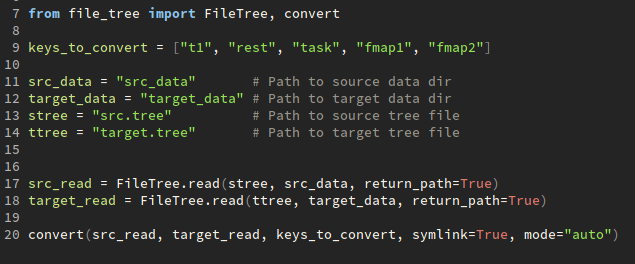
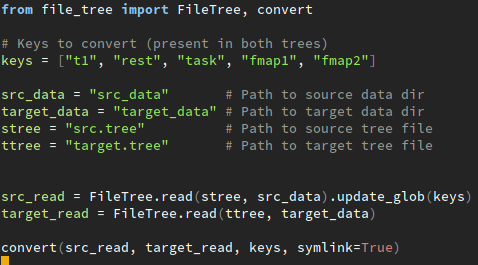
post convert

diff --git a/post/converting-datasets-filetree-wip/index.html b/post/converting-datasets-filetree-wip/index.html
@@ -27,7 +27,7 @@
   
     
   
-  <meta name="description" content="Converting the structure of structured imaging datasets is tricky. I had to do this for a consolidated analysis and have found the file_tree module took much of the hassle out. Work is in progress on incorporating this functionality in the module itself.">
+  <meta name="description" content="We often deal with structured imaging datasets, and understanding a different structure, or converting between them for data sharing or analysis can be tricky. I recently did this for a consolidated analysis and found that Michiel Cottaar&rsquo;s file_tree module took much of the hassle out.">
 
   
   <link rel="alternate" hreflang="en-us" href="https://Craskermasker.github.io/post/converting-datasets-filetree-wip/">
@@ -233,8 +233,8 @@
   
   <meta property="og:site_name" content="Evan Edmond">
   <meta property="og:url" content="https://Craskermasker.github.io/post/converting-datasets-filetree-wip/">
-  <meta property="og:title" content="Converting Datasets with file_tree - Work in Progress | Evan Edmond">
-  <meta property="og:description" content="Converting the structure of structured imaging datasets is tricky. I had to do this for a consolidated analysis and have found the file_tree module took much of the hassle out. Work is in progress on incorporating this functionality in the module itself."><meta property="og:image" content="https://Craskermasker.github.io/post/converting-datasets-filetree-wip/featured.png">
+  <meta property="og:title" content="Converting Datasets with file_tree | Evan Edmond">
+  <meta property="og:description" content="We often deal with structured imaging datasets, and understanding a different structure, or converting between them for data sharing or analysis can be tricky. I recently did this for a consolidated analysis and found that Michiel Cottaar&rsquo;s file_tree module took much of the hassle out."><meta property="og:image" content="https://Craskermasker.github.io/post/converting-datasets-filetree-wip/featured.png">
   <meta property="twitter:image" content="https://Craskermasker.github.io/post/converting-datasets-filetree-wip/featured.png"><meta property="og:locale" content="en-us">
   
     
@@ -266,7 +266,7 @@
     "@type": "WebPage",
     "@id": "https://Craskermasker.github.io/post/converting-datasets-filetree-wip/"
   },
-  "headline": "Converting Datasets with file_tree - Work in Progress",
+  "headline": "Converting Datasets with file_tree",
   
   "image": [
     "https://Craskermasker.github.io/post/converting-datasets-filetree-wip/featured.png"
@@ -288,7 +288,7 @@
       "url": "https://Craskermasker.github.io/images/icon_hu52c3432a9714b9dff44576768deb52e5_42693_192x192_fill_lanczos_center_2.png"
     }
   },
-  "description": "Converting the structure of structured imaging datasets is tricky. I had to do this for a consolidated analysis and have found the file_tree module took much of the hassle out. Work is in progress on incorporating this functionality in the module itself."
+  "description": "We often deal with structured imaging datasets, and understanding a different structure, or converting between them for data sharing or analysis can be tricky. I recently did this for a consolidated analysis and found that Michiel Cottaar\u0026rsquo;s file_tree module took much of the hassle out."
 }
 </script>
 
@@ -306,7 +306,7 @@
 
 
 
-  <title>Converting Datasets with file_tree - Work in Progress | Evan Edmond</title>
+  <title>Converting Datasets with file_tree | Evan Edmond</title>
 
 </head>
 
@@ -588,7 +588,7 @@
 
 
 <div class="article-container pt-3">
-  <h1>Converting Datasets with file_tree - Work in Progress</h1>
+  <h1>Converting Datasets with file_tree</h1>
 
   
 
@@ -641,10 +641,10 @@
 </div>
 
 
-<div class="article-header article-container featured-image-wrapper mt-4 mb-4" style="max-width: 635px; max-height: 264px;">
+<div class="article-header article-container featured-image-wrapper mt-4 mb-4" style="max-width: 478px; max-height: 265px;">
   <div style="position: relative">
     <img src="/post/converting-datasets-filetree-wip/featured.png" alt="" class="featured-image">
-    <span class="article-header-caption">minimum working example</span>
+    
   </div>
 </div>
 
@@ -653,13 +653,13 @@
   <div class="article-container">
 
     <div class="article-style">
-      <p>Converting the structure of structured imaging datasets is tricky.
-I had to do this for a consolidated analysis and  have found the file_tree module took much of the hassle out.
-Work is in progress on incorporating this functionality in the module itself. In the meantime I have put a minimum working example here.</p>
+      <p>We often deal with structured imaging datasets, and understanding a different structure, or converting between them for data sharing or analysis can be tricky.
+I recently did this for a consolidated analysis and found that Michiel Cottaar&rsquo;s file_tree module took much of the hassle out.</p>
+<p>The <code>file_tree.convert</code> function can also handle making symlinks to save space and keep source data folders clean, and overwriting prevous runs.
+As an <strong>approach</strong> I found this clear, flexible and powerful.</p>
+<p>This has now been incorporated in <code>file_tree</code> (0.7.2 onwards) and a minimum working example is here:</p>
 <p><a href="https://gitlab.com/evan.edmond/filetree-convert-demo">https://gitlab.com/evan.edmond/filetree-convert-demo</a></p>
-<p>I found this particularly useful to converge several different datasets into a common 
-<a href="https://bids-specification.readthedocs.io/en/stable/index.html" target="_blank" rel="noopener">BIDS</a> space.</p>
-<p>This became as simple as writing a text file describing the structure of each dataset and the eventual desired target.</p>
+<p>First, we write a text file describing the structure of each dataset and the eventual desired target.</p>
 <p>dataset 1:</p>
 <pre><code>HV_{participant} (subj_dir)
   F3T_NNNN_NNN_{scancode} (scan_dir)
@@ -701,9 +701,8 @@ Work is in progress on incorporating this functionality in the module itself. In
       mrsi
         sub-{participant}_ses-p_slsr_csi_mcycle_pre_{block_n}.dat (mrsi_data)
 </code></pre>
-<p>Despite a range of different originating formats, it was relatively straightforward to move towards a common structure for further analyses.</p>
-<p>The specific implementation is a work in progress, but as an <strong>approach</strong> this had the benefit of clarity, portability, and flexibility.</p>
-<p>target dataset structure:</p>
+<p>Then a desired target dataset structure 
+<a href="https://bids-specification.readthedocs.io/en/stable/index.html" target="_blank" rel="noopener">BIDS</a> :</p>
 <pre><code>rawdata
  sub-{participant} (input_subj_dir)
     anat (input_anat_dir)
@@ -718,6 +717,23 @@ Work is in progress on incorporating this functionality in the module itself. In
       sub-{participant}_task-{task}_sbref.nii.gz (func_sbref)
     mrsi (input_mrsi_dir)
       sub-{participant}_vox-m1_csi_slaser_{block_n}.dat (mrsi_data)
+</code></pre>
+<p>Conversion then can be done as follows:</p>
+<pre><code class="language-python">from file_tree import FileTree, convert
+
+# Keys to convert (present in both trees)
+keys = [&quot;t1&quot;, &quot;rest&quot;, &quot;task&quot;, &quot;fmap1&quot;, &quot;fmap2&quot;]
+
+src_data = &quot;src_data&quot;       # Path to source data dir
+target_data = &quot;target_data&quot; # Path to target data dir
+stree = &quot;src.tree&quot;          # Path to source tree file
+ttree = &quot;target.tree&quot;       # Path to target tree file
+
+
+src_read = FileTree.read(stree, src_data).update_glob(keys)
+target_read = FileTree.read(ttree, target_data)
+
+convert(src_read, target_read, keys, symlink=True)
 </code></pre>
 
     </div>
@@ -742,7 +758,7 @@ Work is in progress on incorporating this functionality in the module itself. In
       
       
       <li>
-        <a href="https://twitter.com/intent/tweet?url=https://Craskermasker.github.io/post/converting-datasets-filetree-wip/&amp;text=Converting%20Datasets%20with%20file_tree%20-%20Work%20in%20Progress" target="_blank" rel="noopener" class="share-btn-twitter">
+        <a href="https://twitter.com/intent/tweet?url=https://Craskermasker.github.io/post/converting-datasets-filetree-wip/&amp;text=Converting%20Datasets%20with%20file_tree" target="_blank" rel="noopener" class="share-btn-twitter">
           <i class="fab fa-twitter"></i>
         </a>
       </li>
@@ -755,7 +771,7 @@ Work is in progress on incorporating this functionality in the module itself. In
       
       
       <li>
-        <a href="https://www.facebook.com/sharer.php?u=https://Craskermasker.github.io/post/converting-datasets-filetree-wip/&amp;t=Converting%20Datasets%20with%20file_tree%20-%20Work%20in%20Progress" target="_blank" rel="noopener" class="share-btn-facebook">
+        <a href="https://www.facebook.com/sharer.php?u=https://Craskermasker.github.io/post/converting-datasets-filetree-wip/&amp;t=Converting%20Datasets%20with%20file_tree" target="_blank" rel="noopener" class="share-btn-facebook">
           <i class="fab fa-facebook"></i>
         </a>
       </li>
@@ -768,7 +784,7 @@ Work is in progress on incorporating this functionality in the module itself. In
       
       
       <li>
-        <a href="mailto:?subject=Converting%20Datasets%20with%20file_tree%20-%20Work%20in%20Progress&amp;body=https://Craskermasker.github.io/post/converting-datasets-filetree-wip/" target="_blank" rel="noopener" class="share-btn-email">
+        <a href="mailto:?subject=Converting%20Datasets%20with%20file_tree&amp;body=https://Craskermasker.github.io/post/converting-datasets-filetree-wip/" target="_blank" rel="noopener" class="share-btn-email">
           <i class="fas fa-envelope"></i>
         </a>
       </li>
@@ -781,7 +797,7 @@ Work is in progress on incorporating this functionality in the module itself. In
       
       
       <li>
-        <a href="https://www.linkedin.com/shareArticle?url=https://Craskermasker.github.io/post/converting-datasets-filetree-wip/&amp;title=Converting%20Datasets%20with%20file_tree%20-%20Work%20in%20Progress" target="_blank" rel="noopener" class="share-btn-linkedin">
+        <a href="https://www.linkedin.com/shareArticle?url=https://Craskermasker.github.io/post/converting-datasets-filetree-wip/&amp;title=Converting%20Datasets%20with%20file_tree" target="_blank" rel="noopener" class="share-btn-linkedin">
           <i class="fab fa-linkedin-in"></i>
         </a>
       </li>
@@ -794,7 +810,7 @@ Work is in progress on incorporating this functionality in the module itself. In
       
       
       <li>
-        <a href="whatsapp://send?text=Converting%20Datasets%20with%20file_tree%20-%20Work%20in%20Progress%20https://Craskermasker.github.io/post/converting-datasets-filetree-wip/" target="_blank" rel="noopener" class="share-btn-whatsapp">
+        <a href="whatsapp://send?text=Converting%20Datasets%20with%20file_tree%20https://Craskermasker.github.io/post/converting-datasets-filetree-wip/" target="_blank" rel="noopener" class="share-btn-whatsapp">
           <i class="fab fa-whatsapp"></i>
         </a>
       </li>
@@ -807,7 +823,7 @@ Work is in progress on incorporating this functionality in the module itself. In
       
       
       <li>
-        <a href="https://service.weibo.com/share/share.php?url=https://Craskermasker.github.io/post/converting-datasets-filetree-wip/&amp;title=Converting%20Datasets%20with%20file_tree%20-%20Work%20in%20Progress" target="_blank" rel="noopener" class="share-btn-weibo">
+        <a href="https://service.weibo.com/share/share.php?url=https://Craskermasker.github.io/post/converting-datasets-filetree-wip/&amp;title=Converting%20Datasets%20with%20file_tree" target="_blank" rel="noopener" class="share-btn-weibo">
           <i class="fab fa-weibo"></i>
         </a>
       </li>

diff --git a/post/index.html b/post/index.html
@@ -568,12 +568,12 @@
   <div class="media-body">
 
     <h3 class="article-title mb-0 mt-0">
-      <a href="/post/converting-datasets-filetree-wip/" >Converting Datasets with file_tree - Work in Progress</a>
+      <a href="/post/converting-datasets-filetree-wip/" >Converting Datasets with file_tree</a>
     </h3>
 
     
     <div class="article-style">
-      Converting the structure of structured imaging datasets is tricky. I had to do this for a consolidated analysis and have found the file_tree module took much of the hassle out. Work is in progress on incorporating this functionality in the module itself.
+      We often deal with structured imaging datasets, and understanding a different structure, or converting between them for data sharing or analysis can be tricky. I recently did this for a consolidated analysis and found that Michiel Cottaar&rsquo;s file_tree module took much of the hassle out.
     </div>
     
 
@@ -624,7 +624,7 @@
     
     
     <a href="/post/converting-datasets-filetree-wip/" >
-      <img src="/post/converting-datasets-filetree-wip/featured_hu363c184a8f026342f08cfd7649f413fd_29248_150x0_resize_lanczos_2.png" alt="Converting Datasets with file_tree - Work in Progress">
+      <img src="/post/converting-datasets-filetree-wip/featured_hu4061703f3e552df892191f8ae8cd71a8_26239_150x0_resize_lanczos_2.png" alt="Converting Datasets with file_tree">
     </a>
     
   </div>

diff --git a/blog/index.html b/blog/index.html
@@ -669,17 +669,17 @@
   
   
   <a href="/post/converting-datasets-filetree-wip/">
-      <img src="/post/converting-datasets-filetree-wip/featured_hu363c184a8f026342f08cfd7649f413fd_29248_918x517_fill_q90_lanczos_smart1_2.png" class="article-banner" alt="Converting Datasets with file_tree - Work in Progress">
+      <img src="/post/converting-datasets-filetree-wip/featured_hu4061703f3e552df892191f8ae8cd71a8_26239_918x517_fill_q90_lanczos_smart1_2.png" class="article-banner" alt="Converting Datasets with file_tree">
   </a>
   
 
   <h3 class="article-title mb-1 mt-3">
-    <a href="/post/converting-datasets-filetree-wip/">Converting Datasets with file_tree - Work in Progress</a>
+    <a href="/post/converting-datasets-filetree-wip/">Converting Datasets with file_tree</a>
   </h3>
 
   
   <div class="article-style">
-    <p>Converting the structure of structured imaging datasets is tricky. I had to do this for a consolidated analysis and have found the file_tree module took much of the hassle out. Work is in progress on incorporating this functionality in the module itself.</p>
+    <p>We often deal with structured imaging datasets, and understanding a different structure, or converting between them for data sharing or analysis can be tricky. I recently did this for a consolidated analysis and found that Michiel Cottaar’s file_tree module took much of the hassle out.</p>
   </div>
   
 

diff --git a/404.html b/404.html
@@ -530,7 +530,7 @@
   <h2>Latest</h2>
   <ul>
     
-      <li><a href="/post/converting-datasets-filetree-wip/">Converting Datasets with file_tree - Work in Progress</a></li>
+      <li><a href="/post/converting-datasets-filetree-wip/">Converting Datasets with file_tree</a></li>
     
       <li><a href="/talk/2020-abn/">2020 Association of British Neurologists Annual Meeting</a></li>
     
